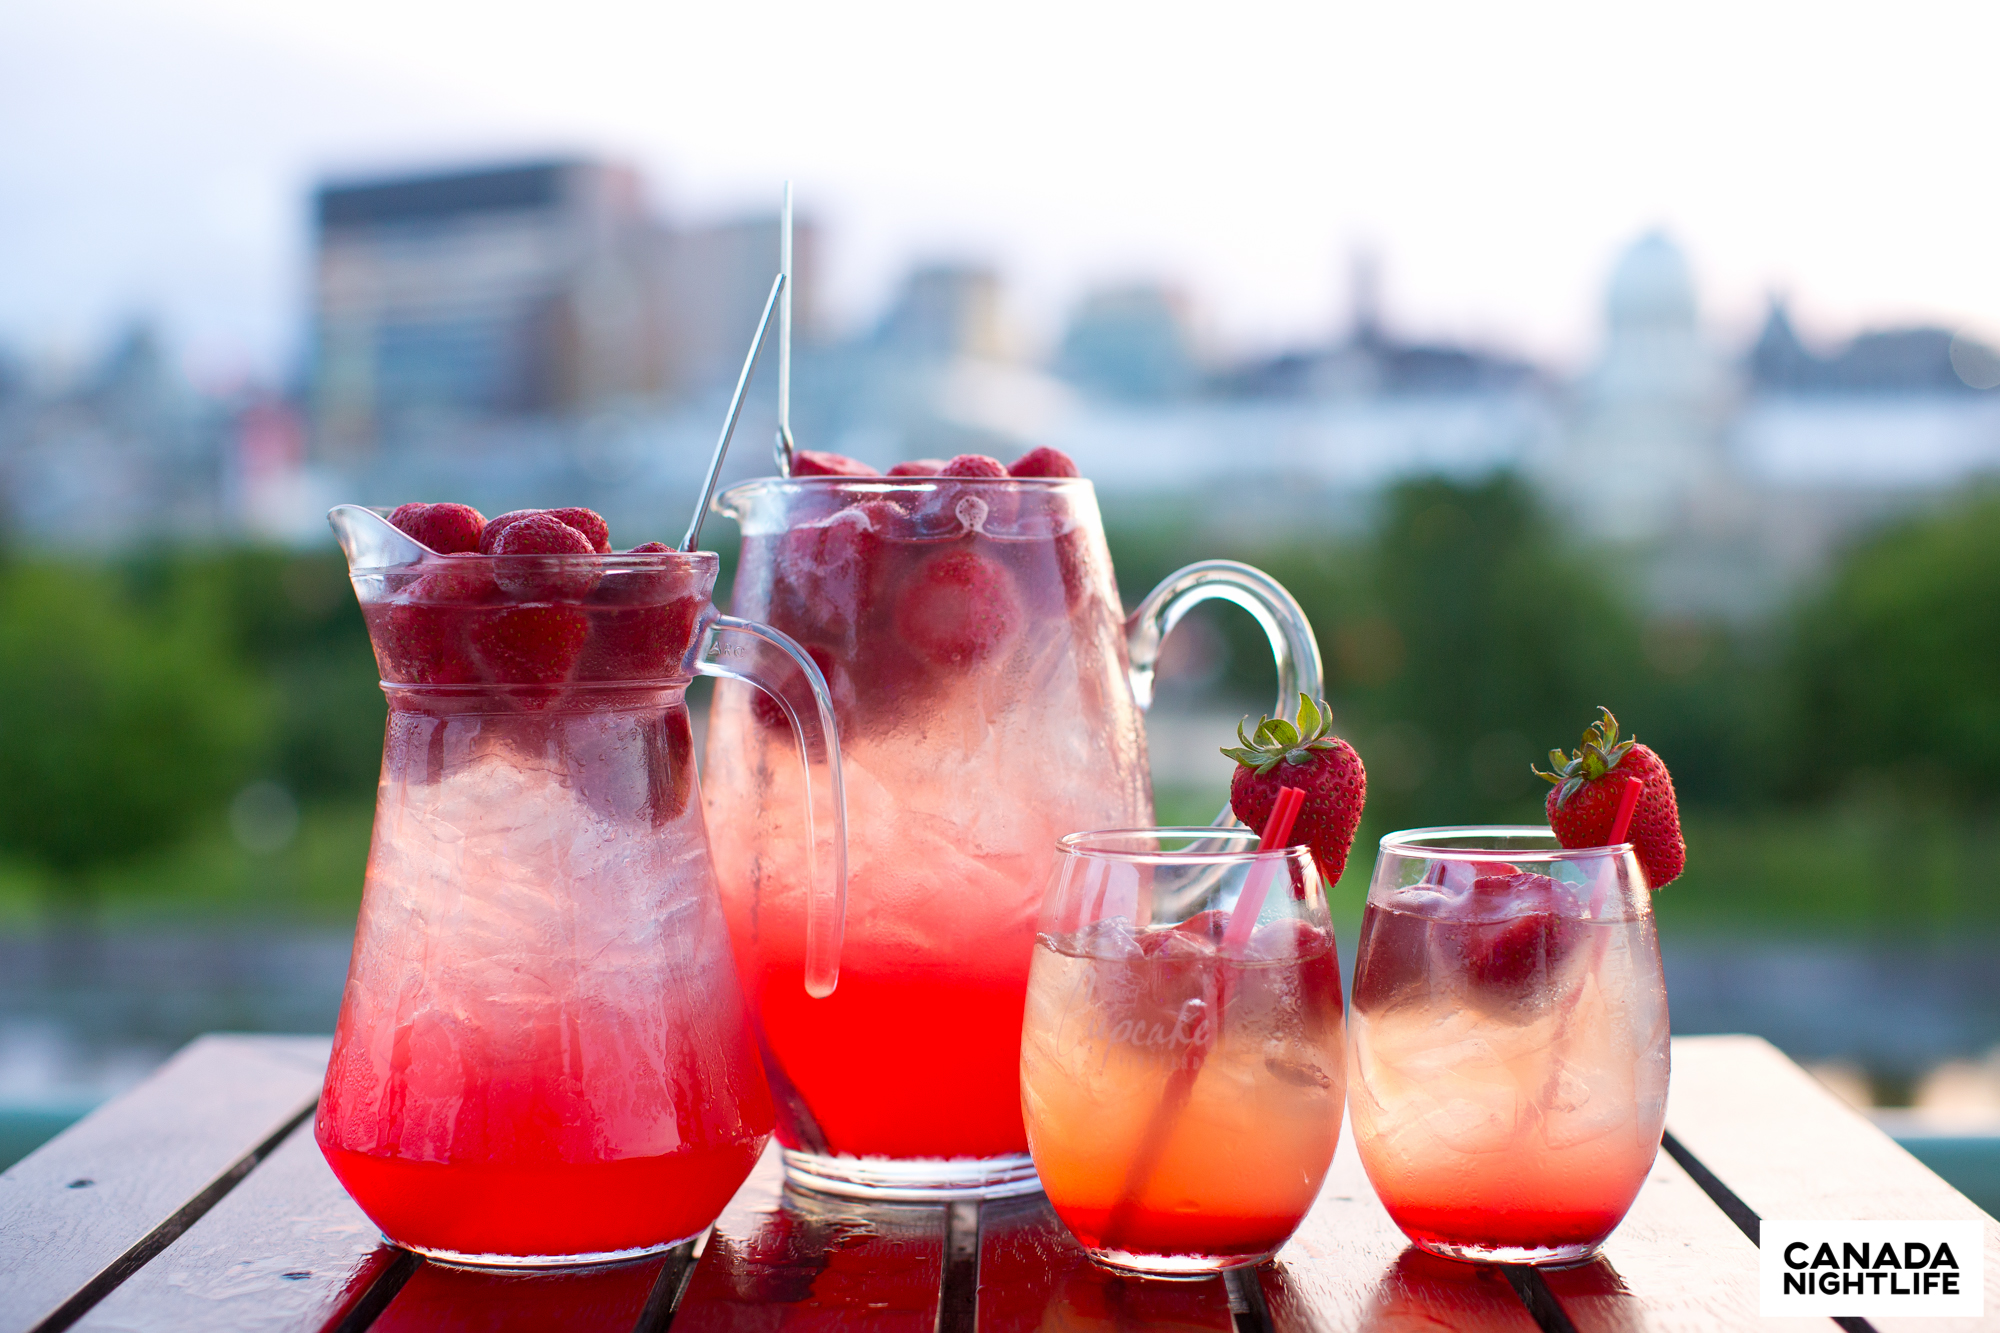
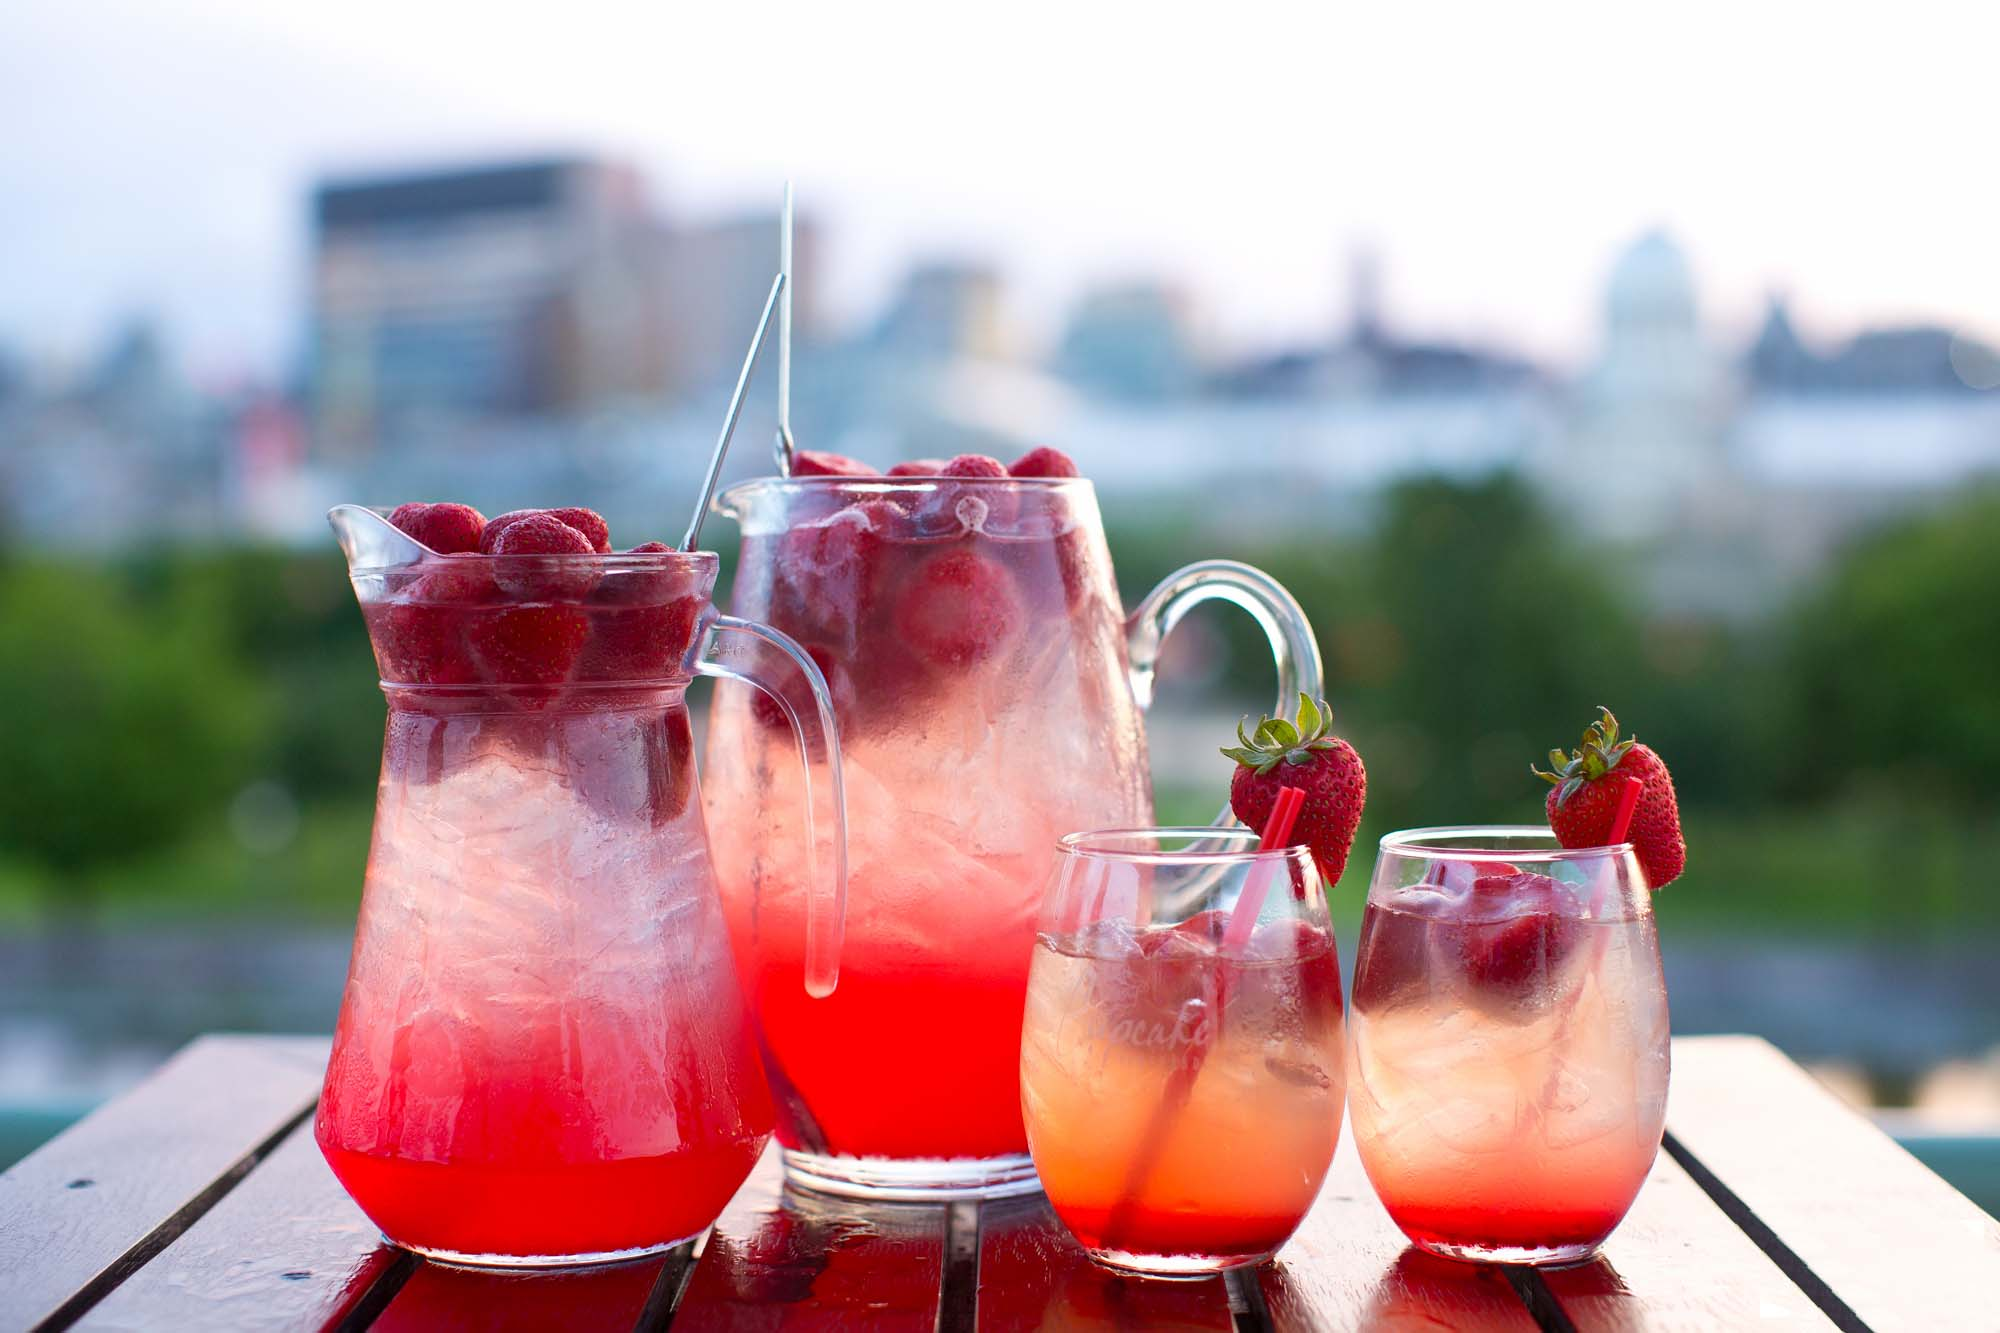
Applying stylesheet to sangria page and editing photo

diff --git a/recipes/champagne-sangria.html b/recipes/champagne-sangria.html
@@ -2,57 +2,72 @@
 <html>
 	<head>
 		<title>Champagne Sangria - New Orleans BBQ</title>
+		<link href='https://fonts.googleapis.com/css?family=Amaranth|Miltonian+Tattoo|Lobster|Lobster+Two' rel='stylesheet' type='text/css'>
+		<link rel="stylesheet" type="text/css" href="../css/grid.css">
+		<link rel="stylesheet" type="text/css" href="../css/stylesheet.css">
+		<script src="https://ajax.googleapis.com/ajax/libs/jquery/1.11.3/jquery.min.js"></script>
+		<script type="text/javascript" src="../js/script.js"></script>
 	</head>
-	<body>
+	<body class="container column fifty">
 		<header>
-			<nav>
-				<ul>
-					<li><a href="../index.html">Home</a></li>
-					<li><a href="../reviews/index.html">Reviews</a></li>
-					<ul>
-						<li><a href="../reviews/awarded-pitmasters.html">Awarded Pitmasters</a></li>
-						<li><a href="../reviews/restaurant-reviews.html">Restaurant Reviews</a></li>
-						<li><a href="../reviews/restaurant-guide.html">Restaurant Guide</a></li>
+			<div class="red-background">
+				<nav class="relative">
+					<ul class="absolute">
+						<li class="inline"><a href="index.html" class="overlay left active"> Recipes</a>
+							<ul class="hidden mainnav-submenu">
+								<li class="marginbottom-10 margintop-20"><a href="bbq-tips-tricks.html">BBQ Tips &amp; Tricks</a></li>
+								<li class="marginbottom-10"><a href="pick-sides.html">Choosing Sides</a></li>
+								<li class="marginbottom-10"><a href="gadgets.html">Gadgets</a></li>
+								<li class="marginbottom-20"><a href="contest.html">Contest</a></li>
+							</ul>
+						</li>
+						<li class="inline"><a href="../reviews.html" class="overlay center">Reviews</a></li>
+						<li class="inline"><a href="../classes.html" class="overlay right">Classes</a></li>
+						<li class="inline"><a href="../index.html" class="house-icon"></a></li>
+						<li><img src="../images/logo.png" class="logo"></li>
 					</ul>
-					<li><a href="index.html">Recipes</a></li>
-					<ul>
-						<li><a href="bbq-tips-tricks.html">BBQ Tips &amp; Tricks</a></li>
-						<li><a href="pick-sides.html">Picking Sides</a></li>
-						<li><a href="gadgets.html">Gadgets</a></li>
-					</ul>
-					<li><a href="../classes.html">Classes</a></li>
-					<li><a href="../contest.html">Contest</a></li>
-				</ul>
-			</nav>
-
-			<section>
+					<img src="../images/nav-header.png" class="column fifty">
+				</nav>
 				<h1>Champagne Sangria</h1>
-				<p>Recipe courtesy of Unknown</p>
-			</section>
+			</div>
 		</header>
 
-		<section>
-			<header><h2>Ingredients</h2></header>
-			<article>
-				<ul>
-					<li>1 Granny Smith apple diced</li>
-					<li>1 Red Delicious apple diced</li>
-					<li>1 Bartlett pear diced</li>
-					<li>1 Sliced orange</li>
-					<li>2 Sliced limes</li>
-					<li>1-cup simple syrup (equal amounts sugar and water heated until sugar is dissolved)</li>
-					<li>3/4 pints orange juice</li>
-					<li>3/4 cup brandy</li>
-					<li>3/4 cup triple sec</li>
-				</ul>
-			</article>
-		</section>
+		<section class="margintop-0">
+			<div class="adjust-position">
+				<div class="absolute column fifty text-center flex-bottom height667">
+					<div class="darkgray-background-translucent column fifty">
+						<p>Recipe courtesy of Unknown</p>
+					</div>
+				</div>
+				<img src="../images/champagne-sangria.jpg" class="column fifty">
+			</div>
+			<header class="column fourty-eight push-1 gray-background text-center large-text margintop-40">
+				<h2>Ingredients</h2>
+			</header>
+			<section class="column push-7 append-7 margintop-40">
+				<article class="column fifteen">
+					<ul>
+						<li>1 Granny Smith apple diced</li>
+						<li>1 Red Delicious apple diced</li>
+						<li>1 Bartlett pear diced</li>
+						<li>1 Sliced orange</li>
+						<li>2 Sliced limes</li>
+						<li>1-cup simple syrup (equal amounts sugar and water heated until sugar is dissolved)</li>
+						<li>3/4 pints orange juice</li>
+						<li>3/4 cup brandy</li>
+						<li>3/4 cup triple sec</li>
+					</ul>
+				</article>
+			</section>
 
-		<section>
-			<header><h2>Instructions</h2></header>
-			<ol>
-				<li>Combine all ingredients and gently mix. Place in a container and refrigerate. Serve base with equal parts Sparkling wine or Champagne</li>
-			</ol>
+			<section>
+				<header class="column fourty-eight push-1 gray-background text-center large-text margintop-40">
+					<h2>Instructions</h2>
+				</header>
+				<ol class="numbered column push-7 append-7 margintop-40 marginbottom-20">
+					<li>Combine all ingredients and gently mix. Place in a container and refrigerate. Serve base with equal parts Sparkling wine or Champagne</li>
+				</ol>
+			</section>
 		</section>
 
 		<footer>
